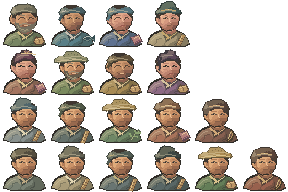
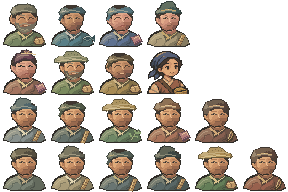
区分林蓼与乐师的造型，收录六处实景和田间动作

Changed region(s): [[0.5, 0.25, 0.6562, 0.5]]

diff --git a/tasks/polish.md b/tasks/polish.md
@@ -15,6 +15,12 @@
 
 用竹涧木桥到望溪台的画面核对固定斜俯视。封地和市集沿用同一光向，让路肩、台阶和摆放的器物都能看出高低与落脚位置。井田继续以九格边界指示下手处，舆图以路线清楚为准，背包里的物品以小尺寸能辨认为准。 [竹涧实机样板](../build/polish-ravine-waterfall/release/verified/native-full/frames/01d-bridge-to-lookout.png)
 
+## 人物动作与六处场景的美术预览
+
+- 林蓼在南池畔戴靛青扎巾、穿赭衣，腰边挎着竹种篮。背面能看到巾结和斜背带。秋社、亭西种圃、谷雨亭集的替补来客和冬至围炉沿用同一造型。正面和侧面的站姿保留眨眼。 [秋社近景](../docs/previews/autumn-festival.png) · [对话肖像](../docs/previews/linliao-dialogue.png)
+- 从同一个 Windows 资源包在隔离桌面按默认 1920×1080 渲染。六处场景并排看路面、建筑和器具的斜俯视。六秒动作样片取自主角、渠伯和石墨的站立、行走及农具动作，采样期间固定时钟和田格。 [六处场景](../docs/previews/six-locations.png) · [井田边的动作](../docs/previews/field-work.gif)
[1 lines of base64/hex data omitted]
+
 ## Windows 1.0 人工试玩
 
 把 [Windows 1.0 x64](../build/Fiefdom-1.0.0-Windows-x64.zip) 交给第一次玩的玩家。解压后运行 `Fiefdom.exe`，选「新建游戏」，用默认 1920×1080。请先按游戏内提示游玩，遇到卡点时记下当时想做的事和看到的提示，再翻包内的 `README.txt` 查操作。

diff --git a/docs/game_design/11_美术音效需求.md b/docs/game_design/11_美术音效需求.md
@@ -105,7 +105,7 @@ Windows 版默认窗口和画面渲染分辨率为 1920×1080，画面比例为 
 
 在册角色使用原生像素图。七位邻居、六类门客和五类来客的正面、背面和侧身共用脚底锚点。来客留任后沿用原服饰，照看设施时有起手和前探动作。邻里手记和对话的 48 × 48 肖像沿用角色的服色与巾帽，记下委托后可看见路粮、样绸、量水尺等随身物件。
 
-西市三位摊主各有站姿、理货和眨眼，棚檐与柜面之间留出巾帽和动作的空间。染工阿苓、运货伙计、车夫申禾、使者召简和节庆来客沿用同一斜俯视。林蓼与阿绥在谷雨亭集、秋社和分种时使用同一套造型。人物动作、对话肖像和动物图集由本项目绘制在 `assets/characters/`。
+西市三位摊主各有站姿、理货和眨眼，棚檐与柜面之间留出巾帽和动作的空间。染工阿苓、运货伙计、车夫申禾、使者召简和节庆来客沿用同一斜俯视。谷雨亭集、亭西种圃、秋社和冬至围炉共用林蓼的靛青扎巾、赭衣和腰间种篮。在秋社台边，林蓼的巾尾和种篮清晰可见，乐师商音则以横簪和梅紫衣辨认。阿绥在各处穿同一身土黄布衣。人物动作、对话肖像和动物图集位于 `assets/characters/`。林蓼的造型以本项目角色为参照，由 ImageGen 生成后按 32 × 32 动作格与 48 × 48 肖像整理，行走沿用同伴的落脚节奏。
 
 野狗和斥候分别绘制待机、步态、蓄势、出手、受击和倒下。辕马绘制四向站姿与小跑，鞍带和车辕使用与场景木石一致的左上受光。西坡羊区分短毛和长毛，溪岸蛙和两种蝴蝶按原有图框绘制起跳与扇翅。
 
